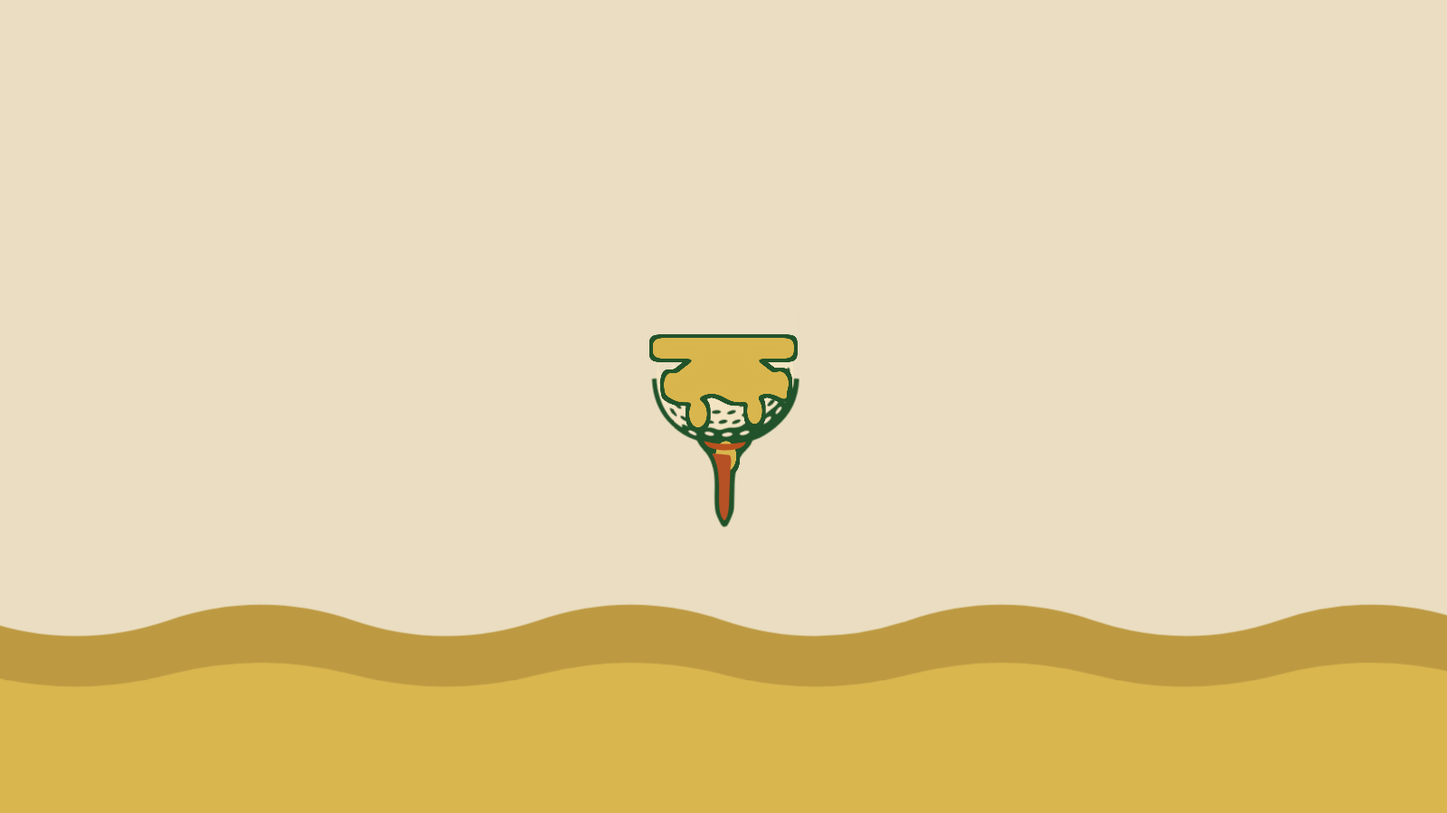
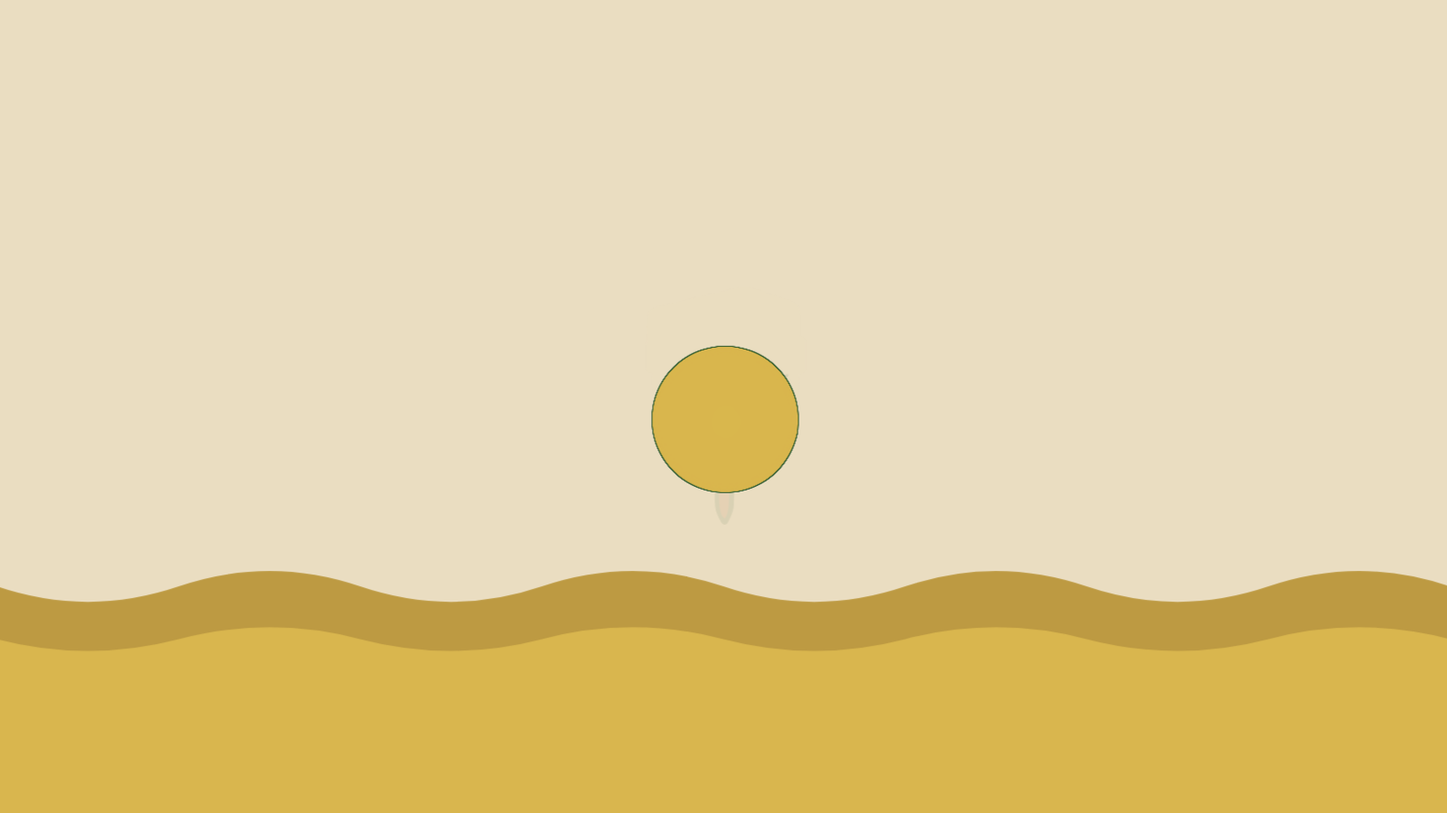
GSAP intro v3.6: butter claims the ball's shape immediately, tee submerged
A golden ring traces the ball's silhouette the moment the melt starts
(shape first), then the W-tongues fill inward. Tee moved beneath the
molten layers so the cascade flows over it; statics fade later/faster
so nothing ghosts in mid-air.

Claude-Session: https://claude.ai/code/session_01XoixdVZHUDRa8j4FLVb79L

Changed region(s): [[0.0, 0.6844, 1.0, 0.84], [0.4375, 0.4044, 0.5625, 0.6533]]

diff --git a/gsap/intro.html b/gsap/intro.html
@@ -36,6 +36,9 @@
     <clipPath id="coatClip">
       <path id="coatWave" d="M1520 400 H1968 V1240 Q1934 1264 1898 1248 L1832 1162 Q1788 1110 1744 1078 Q1700 1110 1656 1162 L1590 1248 Q1554 1264 1520 1240 Z"/>
     </clipPath>
+    <clipPath id="ringClip">
+      <rect id="ringRect" x="1520" y="898" width="448" height="0"/>
+    </clipPath>
     <clipPath id="eraserClip">
       <rect id="eraserRect" x="1520" y="740" width="440" height="0"/>
     </clipPath>
@@ -93,6 +96,8 @@
 <path d="M 1910.9849,989.3867000000001 C 1908.2438,989.1211000000001 1906.4965,983.1426000000001 1907.0822,976.0333 C 1907.6681,968.9243000000001 1910.3652,963.3763000000001 1913.1063,963.6422000000001 C 1915.8474,963.9078000000001 1917.595,969.8863000000001 1917.0094,976.9956000000001 C 1916.4231,984.1046000000001 1913.7263,989.6526000000001 1910.9849,989.3867000000001" fill-rule="evenodd" fill="#244e29"/>
 <path d="M 1605.3024,1058.3885 C 1607.0907,1056.5259 1612.5059,1058.7142000000001 1617.3972,1063.2766000000001 C 1622.2885,1067.8389000000002 1624.8036,1073.0479 1623.0153,1074.9108 C 1621.2268,1076.7735000000002 1615.8118,1074.5851000000002 1610.9203,1070.0228000000002 C 1606.0292,1065.4604000000002 1603.514,1060.2514 1605.3024,1058.3885" fill-rule="evenodd" fill="#244e29"/>
 <path d="M 1760.653,1114.9862 C 1759.7319,1112.5087 1764.159,1108.4917 1770.5413,1106.0142 C 1776.9237,1103.5371 1782.8439,1103.5371 1783.7649,1106.0148000000002 C 1784.6858,1108.4923000000001 1780.2584,1112.509 1773.8762,1114.9868000000001 C 1767.494,1117.4639000000002 1761.5735,1117.4639000000002 1760.653,1114.9862" fill-rule="evenodd" fill="#244e29"/>
+        <path d="M 1711.9911,1196.1174 C 1709.0892,1195.8756 1707.1549,1195.392 1707.6386,1198.2939000000001 C 1707.8803,1199.5028000000002 1708.3638,1200.7118 1709.0892,1201.9208 C 1715.1344,1213.7693000000002 1718.0363,1222.2325 1720.9378,1235.2900000000002 C 1723.8394,1248.8314 1725.0486,1269.8684 1725.5322,1285.1021 C 1726.2575,1305.8976 1721.4214,1358.1276 1737.8643,1375.7793000000001 C 1739.0733,1376.9885000000002 1740.524,1377.9557000000002 1741.9749,1376.5049000000001 C 1749.2289,1368.7669 1751.6472,1349.9060000000002 1752.6144,1332.0126 C 1753.8233,1302.9958000000001 1754.5487,1273.7371 1755.7577,1244.4788 C 1756.7252,1228.2776000000001 1759.3849,1220.0563000000002 1757.2088,1208.4496000000001 C 1755.7577,1202.1626 1755.0324,1199.9864000000002 1748.987,1199.7446 C 1735.446,1199.0193000000002 1724.8068,1197.3267 1711.9911,1196.1174" fill-rule="evenodd" fill="#b65125"/>
+<path d="M 1684.9434,1162.7400000000002 C 1686.1527,1169.7524 1692.6814,1175.7976 1698.7266,1179.183 C 1717.1036,1189.0969 1756.5182,1190.064 1777.0717,1183.0517 C 1786.0184,1180.1502 1796.8997,1173.1378 1797.6251,1165.1580000000001 C 1794.9655,1165.4001 1769.8175,1170.236 1743.7025,1170.7196000000001 C 1720.7308,1170.7196000000001 1706.4644,1167.5762 1684.9434,1162.7400000000002" fill-rule="evenodd" fill="#b9511f"/>
         <g id="hornCover" fill="#EADDC1" opacity="0">
           <rect x="1872" y="876" width="92" height="104" rx="14"/>
           <rect x="1522" y="886" width="84" height="90" rx="14"/>
@@ -101,6 +106,10 @@
       <!-- the molten butter: real art in the goo from frame one -->
       <g id="moltenRim" filter="url(#gooRim)">
     <g class="rPatArt"><path d="M 1567.0794,805.0633000000001 C 1609.861,795.0788000000001 1653.3692,785.0944000000001 1695.4243,775.1099000000002 L 1773.7997,756.2660000000001 C 1786.7239,753.3075000000001 1795.0346,750.5086000000001 1816.691,757.5790000000001 C 1847.8474,767.7821000000001 1879.2848,777.7509000000001 1910.16,788.1884000000001 C 1924.0271,792.9228000000002 1933.4418,800.1880000000001 1932.8479,822.0788000000001 L 1932.9395,880.4629000000001 C 1933.1039,894.1698000000001 1927.05,900.6620000000001 1914.3782,904.4862 C 1910.2658,905.7034000000001 1906.5003,906.3977000000001 1902.3515,907.9258000000001 C 1895.9406,910.3120000000001 1892.821,912.3362000000001 1889.8157,916.5335000000001 C 1884.0892,924.5998000000001 1878.8074,924.3693000000001 1873.9718,922.2053000000001 C 1864.9911,918.3587000000001 1856.2456,920.3220000000001 1847.3936,923.0492000000002 C 1822.4683,930.6670000000001 1796.3467,938.4243000000001 1770.4716,944.9874000000001 C 1748.5101,950.5189000000001 1734.8494,959.2474000000001 1732.5967,983.3319000000001 C 1731.9557,993.8473000000001 1732.7018,997.5278000000001 1733.2058,1003.0662000000001 C 1733.7997,1008.8865000000001 1733.643,1012.6736000000001 1732.737,1015.3946000000001 C 1730.472,1021.8950000000001 1724.8014,1022.7871000000001 1721.8619,1022.2383000000001 C 1715.6676,1021.0531000000001 1711.0879,1015.0366000000001 1710.6117,1004.5662000000001 C 1710.3696,997.7067000000001 1711.018,988.8320000000001 1710.6585,982.3004000000001 C 1710.1535,972.5685000000001 1704.172,964.7667000000001 1695.471,963.1756000000001 C 1685.9475,961.9009000000001 1679.8106,968.3437000000001 1675.9794,975.8955000000001 C 1674.8351,978.1510000000001 1673.9277,981.3335000000001 1672.5458,983.2364000000001 C 1669.9826,986.6215000000001 1666.1585,985.8627000000001 1661.6597,987.2911000000001 C 1658.1005,988.4210000000002 1655.0391,990.7332000000001 1653.0956,993.4099000000001 C 1649.6583,998.5900000000001 1650.127,1004.2156000000001 1650.6581,1010.1445000000001 C 1651.7055,1017.6450000000001 1654.5805,1023.2701000000002 1653.237,1035.3171000000002 C 1652.3229,1042.6851000000001 1646.8384,1045.2468000000001 1642.1275,1044.6924000000001 C 1633.6237,1043.5574000000001 1631.7006,1031.3709000000001 1632.5794,1024.0595 C 1633.4473,1016.7581000000001 1635.9253,1011.4737 1637.9087,1005.7387000000001 C 1640.1665,999.1215000000001 1642.4243,992.4572000000001 1643.3461,987.3634000000001 C 1645.7846,972.8775 1640.0446,964.7726000000001 1628.252,957.9726 L 1603.408,945.0818000000002 C 1595.5328,941.4846000000001 1586.9546,946.1972000000001 1586.8607,955.0195000000001 L 1586.6266,973.7695000000001 C 1586.2966,979.5165000000001 1583.9887,982.5544000000001 1579.5952,982.5354000000001 C 1566.322,982.2596000000001 1573.1141,959.0186000000001 1571.8606,949.0426000000001 C 1570.6344,940.3734000000001 1567.0397,933.8761000000001 1561.3139,929.3322000000001 C 1556.9303,925.9255 1550.2745,924.6287000000001 1546.1957,920.9414000000002 C 1542.9138,917.8797000000001 1541.1881,913.6515 1540.8048,908.5197000000001 C 1540.1254,899.3867000000001 1540.8989,857.4884000000001 1540.946,831.9726 C 1541.49,815.3735000000001 1552.0326,808.5706000000001 1567.0794,805.0633000000001" fill-rule="evenodd"/></g>
+    <g clip-path="url(#ringClip)">
+      <circle class="rRing" cx="1742.1" cy="1104.6" r="184"
+        fill="none" stroke="#D9B64E" stroke-width="30"/>
+    </g>
     <g clip-path="url(#coatClip)">
       <ellipse class="rCoat" cx="1742.1" cy="1104.6" rx="190" ry="190"/>
     </g>
@@ -112,6 +121,10 @@
 </g>
       <g id="moltenGold" filter="url(#goo)" fill="#D9B64E">
     <g class="gPatArt"><path d="M 1567.0794,805.0633000000001 C 1609.861,795.0788000000001 1653.3692,785.0944000000001 1695.4243,775.1099000000002 L 1773.7997,756.2660000000001 C 1786.7239,753.3075000000001 1795.0346,750.5086000000001 1816.691,757.5790000000001 C 1847.8474,767.7821000000001 1879.2848,777.7509000000001 1910.16,788.1884000000001 C 1924.0271,792.9228000000002 1933.4418,800.1880000000001 1932.8479,822.0788000000001 L 1932.9395,880.4629000000001 C 1933.1039,894.1698000000001 1927.05,900.6620000000001 1914.3782,904.4862 C 1910.2658,905.7034000000001 1906.5003,906.3977000000001 1902.3515,907.9258000000001 C 1895.9406,910.3120000000001 1892.821,912.3362000000001 1889.8157,916.5335000000001 C 1884.0892,924.5998000000001 1878.8074,924.3693000000001 1873.9718,922.2053000000001 C 1864.9911,918.3587000000001 1856.2456,920.3220000000001 1847.3936,923.0492000000002 C 1822.4683,930.6670000000001 1796.3467,938.4243000000001 1770.4716,944.9874000000001 C 1748.5101,950.5189000000001 1734.8494,959.2474000000001 1732.5967,983.3319000000001 C 1731.9557,993.8473000000001 1732.7018,997.5278000000001 1733.2058,1003.0662000000001 C 1733.7997,1008.8865000000001 1733.643,1012.6736000000001 1732.737,1015.3946000000001 C 1730.472,1021.8950000000001 1724.8014,1022.7871000000001 1721.8619,1022.2383000000001 C 1715.6676,1021.0531000000001 1711.0879,1015.0366000000001 1710.6117,1004.5662000000001 C 1710.3696,997.7067000000001 1711.018,988.8320000000001 1710.6585,982.3004000000001 C 1710.1535,972.5685000000001 1704.172,964.7667000000001 1695.471,963.1756000000001 C 1685.9475,961.9009000000001 1679.8106,968.3437000000001 1675.9794,975.8955000000001 C 1674.8351,978.1510000000001 1673.9277,981.3335000000001 1672.5458,983.2364000000001 C 1669.9826,986.6215000000001 1666.1585,985.8627000000001 1661.6597,987.2911000000001 C 1658.1005,988.4210000000002 1655.0391,990.7332000000001 1653.0956,993.4099000000001 C 1649.6583,998.5900000000001 1650.127,1004.2156000000001 1650.6581,1010.1445000000001 C 1651.7055,1017.6450000000001 1654.5805,1023.2701000000002 1653.237,1035.3171000000002 C 1652.3229,1042.6851000000001 1646.8384,1045.2468000000001 1642.1275,1044.6924000000001 C 1633.6237,1043.5574000000001 1631.7006,1031.3709000000001 1632.5794,1024.0595 C 1633.4473,1016.7581000000001 1635.9253,1011.4737 1637.9087,1005.7387000000001 C 1640.1665,999.1215000000001 1642.4243,992.4572000000001 1643.3461,987.3634000000001 C 1645.7846,972.8775 1640.0446,964.7726000000001 1628.252,957.9726 L 1603.408,945.0818000000002 C 1595.5328,941.4846000000001 1586.9546,946.1972000000001 1586.8607,955.0195000000001 L 1586.6266,973.7695000000001 C 1586.2966,979.5165000000001 1583.9887,982.5544000000001 1579.5952,982.5354000000001 C 1566.322,982.2596000000001 1573.1141,959.0186000000001 1571.8606,949.0426000000001 C 1570.6344,940.3734000000001 1567.0397,933.8761000000001 1561.3139,929.3322000000001 C 1556.9303,925.9255 1550.2745,924.6287000000001 1546.1957,920.9414000000002 C 1542.9138,917.8797000000001 1541.1881,913.6515 1540.8048,908.5197000000001 C 1540.1254,899.3867000000001 1540.8989,857.4884000000001 1540.946,831.9726 C 1541.49,815.3735000000001 1552.0326,808.5706000000001 1567.0794,805.0633000000001" fill-rule="evenodd"/></g>
+    <g clip-path="url(#ringClip)">
+      <circle class="gRing" cx="1742.1" cy="1104.6" r="184"
+        fill="none" stroke="#D9B64E" stroke-width="30"/>
+    </g>
     <g clip-path="url(#coatClip)">
       <ellipse class="gCoat" cx="1742.1" cy="1104.6" rx="190" ry="190"/>
     </g>
@@ -121,8 +134,6 @@
 <ellipse class="gRun" cx="1814" cy="962" rx="28" ry="34" data-drift="22"/>
 <ellipse class="gRun" cx="1882" cy="962" rx="33" ry="34" data-drift="52"/>
 </g>
-      <g id="staticB"><path d="M 1711.9911,1196.1174 C 1709.0892,1195.8756 1707.1549,1195.392 1707.6386,1198.2939000000001 C 1707.8803,1199.5028000000002 1708.3638,1200.7118 1709.0892,1201.9208 C 1715.1344,1213.7693000000002 1718.0363,1222.2325 1720.9378,1235.2900000000002 C 1723.8394,1248.8314 1725.0486,1269.8684 1725.5322,1285.1021 C 1726.2575,1305.8976 1721.4214,1358.1276 1737.8643,1375.7793000000001 C 1739.0733,1376.9885000000002 1740.524,1377.9557000000002 1741.9749,1376.5049000000001 C 1749.2289,1368.7669 1751.6472,1349.9060000000002 1752.6144,1332.0126 C 1753.8233,1302.9958000000001 1754.5487,1273.7371 1755.7577,1244.4788 C 1756.7252,1228.2776000000001 1759.3849,1220.0563000000002 1757.2088,1208.4496000000001 C 1755.7577,1202.1626 1755.0324,1199.9864000000002 1748.987,1199.7446 C 1735.446,1199.0193000000002 1724.8068,1197.3267 1711.9911,1196.1174" fill-rule="evenodd" fill="#b65125"/>
-<path d="M 1684.9434,1162.7400000000002 C 1686.1527,1169.7524 1692.6814,1175.7976 1698.7266,1179.183 C 1717.1036,1189.0969 1756.5182,1190.064 1777.0717,1183.0517 C 1786.0184,1180.1502 1796.8997,1173.1378 1797.6251,1165.1580000000001 C 1794.9655,1165.4001 1769.8175,1170.236 1743.7025,1170.7196000000001 C 1720.7308,1170.7196000000001 1706.4644,1167.5762 1684.9434,1162.7400000000002" fill-rule="evenodd" fill="#b9511f"/></g>
       <g id="bsg" filter="url(#lettersMelt)"><path d="M 1702.0774,807.9856000000001 C 1709.8911,808.8651000000001 1716.7363,811.9371000000001 1721.1317,816.9201000000002 C 1728.5978,825.3855000000001 1727.0614,836.8618000000001 1720.9049,845.6050000000001 C 1716.7796,851.4702000000001 1710.2376,856.0419 1703.6712,858.1423000000001 C 1701.9292,858.6738000000001 1701.7588,859.6427000000001 1703.1555,860.2987 C 1710.5302,863.5001000000001 1714.7344,869.6133000000001 1715.3898,878.2989000000001 C 1715.6007,886.9616000000001 1713.354,894.0998000000001 1709.0425,900.0033000000001 C 1700.1417,911.7526000000001 1683.8709,919.0498000000001 1669.6871,918.0962000000001 C 1663.4319,917.3796000000001 1659.5827,915.1062000000001 1655.3432,910.2678000000001 C 1654.9291,909.7621000000001 1654.6561,909.6549000000001 1654.312,910.1742000000002 C 1648.6724,919.1210000000001 1642.1627,924.7900000000001 1635.3275,927.0962000000001 C 1626.8224,929.8847000000001 1617.8869,928.4098000000001 1613.5773,922.3618000000001 C 1610.8285,918.3678000000001 1610.8291,911.2316000000001 1613.0617,906.5178000000001 C 1615.0901,902.4668000000001 1618.8395,901.2292000000001 1620.5615,905.3928000000001 C 1622.1943,909.1025000000001 1624.4243,911.6086000000001 1627.5462,912.3773000000001 C 1631.156,913.0846000000001 1634.1792,911.4646000000001 1636.8551,908.2104000000002 C 1642.1085,901.3355000000001 1645.41,892.1326000000001 1647.843,885.3068000000001 C 1655.4249,864.4387000000002 1665.2988,832.6243000000001 1677.3993,819.0721000000001 C 1678.0317,818.2714000000001 1677.2017,818.1308000000001 1675.9227,818.3572000000001 C 1664.1585,820.1544000000001 1649.1742,828.4542000000001 1643.5471,836.7640000000001 C 1641.6763,839.5264000000001 1640.356,843.4779000000001 1643.5315,845.9086000000001 C 1644.7521,846.8811000000001 1647.0208,847.9385000000001 1648.5471,848.7211000000001 C 1650.5549,849.7365000000001 1649.6685,851.8772000000001 1648.313,853.1741000000001 C 1644.8168,856.4382000000002 1640.3687,857.7152000000001 1635.891,856.8772000000001 C 1629.3878,855.2604000000001 1626.457,850.0959000000001 1626.9378,843.4240000000001 C 1627.8528,837.0628000000002 1632.8511,830.5817000000001 1639.9223,825.0958 C 1659.505,811.9643000000001 1676.9551,805.9735000000001 1702.0774,807.9856000000001 M 1675.0208,865.9804000000001 C 1678.9467,865.9645000000002 1685.2514,866.3413000000002 1689.0131,867.9723000000001 C 1701.7007,873.5818000000002 1698.1228,886.6444000000001 1695.2947,891.9730000000001 C 1692.7575,896.6584000000001 1688.9605,901.0053000000001 1683.6735,904.0854000000002 C 1676.5271,908.1089000000001 1667.1067,908.9738000000001 1660.2789,903.1293000000001 C 1659.6694,902.6157000000001 1659.3883,902.1726000000001 1659.7166,901.2545000000001 C 1664.6902,889.9913000000001 1669.1023,878.6584000000001 1673.0756,867.2696000000001 C 1673.3928,866.4198000000001 1673.9855,865.9920000000001 1675.0208,865.9804000000001 M 1693.6495,820.4478000000001 C 1694.8202,819.6110000000001 1696.3405,819.1881000000001 1697.9649,819.1416000000002 C 1702.0205,819.0849000000001 1705.1452,821.4952000000001 1707.5512,825.0246000000001 C 1712.356,832.8292000000001 1707.1532,843.2826000000001 1703.7077,846.7984000000001 C 1698.0302,853.0757000000001 1690.3071,857.4737000000001 1679.0043,858.2594000000001 C 1677.9708,858.3240000000001 1677.026,858.2481000000001 1677.223,857.2752000000002 C 1679.7501,850.2637000000001 1688.5355,824.1051000000001 1693.6495,820.4478000000001" fill-rule="evenodd" fill="#b15023" class="bsgL"/>
 <path d="M 1784.3244,834.5170000000002 C 1789.8626,830.9839000000001 1793.6376,823.2762000000001 1792.9962,816.5167000000001 C 1791.0624,800.3065000000001 1773.9763,796.5634000000001 1760.0587,800.8391000000001 C 1746.9832,804.8785000000001 1737.2155,816.5365000000002 1737.6834,830.4856000000001 C 1738.0355,839.0961000000001 1741.9686,846.1881000000001 1748.1832,853.1735000000001 C 1754.3239,860.1501000000001 1761.4257,865.7437000000001 1766.6054,874.5955000000001 C 1769.7665,880.8045000000001 1769.0187,887.8988000000002 1765.8085,892.6896000000002 C 1761.8964,898.4643000000001 1754.955,901.9739000000001 1747.3397,900.7522000000001 C 1741.2453,899.4862 1736.747,894.2291000000001 1735.7145,888.6582000000001 C 1734.763,882.7666000000002 1735.6113,876.5721000000001 1738.8082,872.0641000000002 C 1739.9194,870.5309000000001 1739.425,869.6717000000001 1738.0108,869.6269000000001 C 1734.8091,869.5073000000001 1731.2102,870.4183000000002 1727.7457,873.7048000000001 C 1721.9004,879.6275 1719.2316,888.1740000000001 1721.2771,895.2209000000001 C 1724.377,904.8825000000002 1734.287,912.0051000000001 1745.8866,912.4712000000001 C 1755.8134,912.5743000000001 1764.7413,909.3440000000002 1773.5899,902.0178000000001 C 1777.8762,898.1162000000002 1781.3273,893.7849000000001 1783.2626,889.5902000000001 C 1786.1975,883.0665000000001 1786.0844,873.7831000000001 1783.4998,866.9314000000002 C 1778.7881,854.3246000000001 1765.4984,846.7556000000001 1758.2854,835.2446000000001 C 1756.5454,832.4366000000001 1754.8087,828.0809000000002 1755.3501,822.7651000000001 C 1756.081,816.9102000000001 1759.6633,812.7257000000001 1764.3197,810.8222000000001 C 1768.1995,809.2490000000001 1774.4474,808.9970000000001 1777.341,812.8850000000001 C 1779.7949,816.3571000000001 1780.17,821.1638000000002 1779.71,827.2532000000001 C 1779.5784,828.8854000000001 1779.2765,830.8702000000001 1779.6397,832.7845000000001 C 1780.287,835.6823 1782.9031,835.3691000000001 1784.3244,834.5170000000002" fill-rule="evenodd" fill="#b15023" class="bsgL"/>
 <path d="M 1838.0089,800.0726000000001 C 1847.0741,796.8854000000001 1856.444,795.8292000000001 1864.0523,797.5181000000001 C 1873.8449,800.0369000000001 1878.6932,808.0306000000002 1876.6809,818.5415000000002 C 1875.1154,825.6684000000001 1868.0786,833.0790000000001 1861.634,834.6199000000001 C 1859.4048,835.0709000000002 1857.4534,834.7282000000001 1856.4776,833.4013000000001 C 1855.692,832.1557000000001 1856.3445,830.3367000000001 1856.8526,829.1825000000001 C 1857.8483,826.9165000000002 1859.2554,824.3554000000001 1860.1807,821.9635000000001 C 1865.2141,809.3082 1855.471,804.3793000000001 1844.2899,808.3229000000001 C 1837.29,810.8205000000002 1830.4313,816.6145000000001 1824.228,825.8535 C 1817.3958,836.6776000000001 1812.482,850.1784000000001 1810.8919,862.2991000000001 C 1810.0471,869.0574000000001 1809.8975,876.9692000000001 1812.8075,883.2185000000001 C 1815.472,888.7191000000001 1821.7194,890.3490000000002 1826.8792,887.3123000000002 C 1832.6957,883.7641000000001 1836.3186,879.1902000000001 1839.2752,873.8772000000001 C 1840.6395,871.4864000000001 1848.001,858.9961000000001 1843.5407,857.6114000000001 C 1841.5894,857.1213000000001 1836.4623,857.3078000000002 1834.4705,857.2832000000001 C 1832.504,857.2032000000002 1831.7727,856.4433000000001 1831.6812,854.9862 C 1831.3594,849.4584000000001 1850.034,847.3491000000001 1853.6658,846.9704000000002 C 1859.5018,846.4078000000001 1864.4706,846.1736000000001 1869.2753,846.2674000000001 C 1871.8067,846.3068000000001 1871.7012,847.3647000000001 1870.541,848.8456000000001 C 1859.6038,862.0510000000002 1862.1817,863.7700000000001 1857.744,880.4867000000002 C 1853.4306,896.4979000000001 1844.339,908.1634000000001 1830.0407,916.1585000000001 C 1817.0048,923.3134000000001 1796.7175,929.5349000000001 1774.6342,933.7834000000001 C 1730.7218,942.1085000000002 1717.2604,933.5604000000001 1679.5244,960.3617000000002 C 1677.4115,961.7399000000001 1677.2003,960.0456000000001 1677.5946,958.4148000000001 C 1679.2656,951.5108000000001 1683.4025,945.1759000000001 1688.5596,939.9012000000001 C 1696.1737,932.3245000000001 1705.5197,927.4704000000002 1715.7124,925.2058000000001 C 1730.3919,922.1353000000001 1746.4255,922.3040000000001 1761.463,921.5962000000001 C 1779.3694,920.8617000000002 1792.4472,918.8619000000001 1805.9472,915.2681000000001 C 1816.0119,912.6137000000001 1825.8761,907.3450000000001 1832.8535,899.3774000000001 C 1835.9501,895.6711000000001 1837.2178,891.9668000000001 1837.9159,889.0179 C 1838.1875,887.8500000000001 1837.7907,887.1269000000001 1836.8847,888.2211000000001 C 1831.29,894.9315000000001 1824.9639,899.3312000000001 1818.1347,900.7369000000001 C 1811.2907,902.0108000000001 1805.2628,901.0337000000001 1800.0873,897.1272000000001 C 1792.7589,891.0690000000001 1789.662,881.4857000000001 1790.4197,868.2473000000001 C 1791.4575,854.4964000000001 1795.7217,842.8148000000001 1803.4628,829.5328000000001 C 1811.948,815.8815000000001 1824.0548,805.2561000000001 1838.0089,800.0726000000001" fill-rule="evenodd" fill="#b15023" class="bsgL"/>
@@ -194,6 +205,8 @@ tl.addLabel("melt", 1.6)
   .to(".rPatArt", { opacity: 0, duration: 1.6, ease: "sine.in" }, "melt+=0.5")
   .to("#eraserRect", { attr: { height: 300 }, duration: 1.6, ease: "power1.out" }, "melt+=0.05")
   // butter coats the ball's crown, hugging the surface
+  .to("#ringRect", { attr: { height: 430 }, duration: 0.85, ease: "power1.inOut" }, "melt+=0.45")
+  .to(".rRing, .gRing", { autoAlpha: 0, duration: 0.5, ease: "sine.inOut" }, "melt+=2.7")
   .to("#coatWave", { y: 255, duration: 2.5, ease: "power1.inOut" }, "melt+=0.4")
   .to(".rRun, .gRun", { autoAlpha: 1, duration: 0.4, stagger: 0.15 }, "melt+=0.3")
   .to("#hornCover", { opacity: 1, duration: 0.5, ease: "sine.inOut" }, "melt+=0.9")
@@ -221,7 +234,7 @@ tl.addLabel("consume", 3.3)
   .to("#pondBack", { y: 585, duration: 1.3, ease: "power1.inOut" }, "consume+=0.1")
   .to("#pondFront", { y: 606, duration: 1.3, ease: "power1.inOut" }, "consume+=0.22")
   // everything solid fades beneath the gold (invisible handoff)
-  .to(["#staticA", "#staticB"], { autoAlpha: 0, duration: 0.55, ease: "sine.inOut" }, "consume+=0.55")
+  .to("#staticA", { autoAlpha: 0, duration: 0.38, ease: "sine.inOut" }, "consume+=0.78")
   .to(".rPatArt, .gPatArt", { autoAlpha: 0, duration: 0.4 }, "consume+=0.7")
   // ...and the whole molten mass slumps off the tee into the river
   .to(".rCoat, .gCoat", { attr: { cy: "+=300", ry: 96, rx: 238 },

diff --git a/gsap/intro_artifact.html b/gsap/intro_artifact.html
@@ -29,6 +29,9 @@
     <clipPath id="coatClip">
       <path id="coatWave" d="M1520 400 H1968 V1240 Q1934 1264 1898 1248 L1832 1162 Q1788 1110 1744 1078 Q1700 1110 1656 1162 L1590 1248 Q1554 1264 1520 1240 Z"/>
     </clipPath>
+    <clipPath id="ringClip">
+      <rect id="ringRect" x="1520" y="898" width="448" height="0"/>
+    </clipPath>
     <clipPath id="eraserClip">
       <rect id="eraserRect" x="1520" y="740" width="440" height="0"/>
     </clipPath>
@@ -86,6 +89,8 @@
 <path d="M 1910.9849,989.3867000000001 C 1908.2438,989.1211000000001 1906.4965,983.1426000000001 1907.0822,976.0333 C 1907.6681,968.9243000000001 1910.3652,963.3763000000001 1913.1063,963.6422000000001 C 1915.8474,963.9078000000001 1917.595,969.8863000000001 1917.0094,976.9956000000001 C 1916.4231,984.1046000000001 1913.7263,989.6526000000001 1910.9849,989.3867000000001" fill-rule="evenodd" fill="#244e29"/>
 <path d="M 1605.3024,1058.3885 C 1607.0907,1056.5259 1612.5059,1058.7142000000001 1617.3972,1063.2766000000001 C 1622.2885,1067.8389000000002 1624.8036,1073.0479 1623.0153,1074.9108 C 1621.2268,1076.7735000000002 1615.8118,1074.5851000000002 1610.9203,1070.0228000000002 C 1606.0292,1065.4604000000002 1603.514,1060.2514 1605.3024,1058.3885" fill-rule="evenodd" fill="#244e29"/>
 <path d="M 1760.653,1114.9862 C 1759.7319,1112.5087 1764.159,1108.4917 1770.5413,1106.0142 C 1776.9237,1103.5371 1782.8439,1103.5371 1783.7649,1106.0148000000002 C 1784.6858,1108.4923000000001 1780.2584,1112.509 1773.8762,1114.9868000000001 C 1767.494,1117.4639000000002 1761.5735,1117.4639000000002 1760.653,1114.9862" fill-rule="evenodd" fill="#244e29"/>
+        <path d="M 1711.9911,1196.1174 C 1709.0892,1195.8756 1707.1549,1195.392 1707.6386,1198.2939000000001 C 1707.8803,1199.5028000000002 1708.3638,1200.7118 1709.0892,1201.9208 C 1715.1344,1213.7693000000002 1718.0363,1222.2325 1720.9378,1235.2900000000002 C 1723.8394,1248.8314 1725.0486,1269.8684 1725.5322,1285.1021 C 1726.2575,1305.8976 1721.4214,1358.1276 1737.8643,1375.7793000000001 C 1739.0733,1376.9885000000002 1740.524,1377.9557000000002 1741.9749,1376.5049000000001 C 1749.2289,1368.7669 1751.6472,1349.9060000000002 1752.6144,1332.0126 C 1753.8233,1302.9958000000001 1754.5487,1273.7371 1755.7577,1244.4788 C 1756.7252,1228.2776000000001 1759.3849,1220.0563000000002 1757.2088,1208.4496000000001 C 1755.7577,1202.1626 1755.0324,1199.9864000000002 1748.987,1199.7446 C 1735.446,1199.0193000000002 1724.8068,1197.3267 1711.9911,1196.1174" fill-rule="evenodd" fill="#b65125"/>
+<path d="M 1684.9434,1162.7400000000002 C 1686.1527,1169.7524 1692.6814,1175.7976 1698.7266,1179.183 C 1717.1036,1189.0969 1756.5182,1190.064 1777.0717,1183.0517 C 1786.0184,1180.1502 1796.8997,1173.1378 1797.6251,1165.1580000000001 C 1794.9655,1165.4001 1769.8175,1170.236 1743.7025,1170.7196000000001 C 1720.7308,1170.7196000000001 1706.4644,1167.5762 1684.9434,1162.7400000000002" fill-rule="evenodd" fill="#b9511f"/>
         <g id="hornCover" fill="#EADDC1" opacity="0">
           <rect x="1872" y="876" width="92" height="104" rx="14"/>
           <rect x="1522" y="886" width="84" height="90" rx="14"/>
@@ -94,6 +99,10 @@
       <!-- the molten butter: real art in the goo from frame one -->
       <g id="moltenRim" filter="url(#gooRim)">
     <g class="rPatArt"><path d="M 1567.0794,805.0633000000001 C 1609.861,795.0788000000001 1653.3692,785.0944000000001 1695.4243,775.1099000000002 L 1773.7997,756.2660000000001 C 1786.7239,753.3075000000001 1795.0346,750.5086000000001 1816.691,757.5790000000001 C 1847.8474,767.7821000000001 1879.2848,777.7509000000001 1910.16,788.1884000000001 C 1924.0271,792.9228000000002 1933.4418,800.1880000000001 1932.8479,822.0788000000001 L 1932.9395,880.4629000000001 C 1933.1039,894.1698000000001 1927.05,900.6620000000001 1914.3782,904.4862 C 1910.2658,905.7034000000001 1906.5003,906.3977000000001 1902.3515,907.9258000000001 C 1895.9406,910.3120000000001 1892.821,912.3362000000001 1889.8157,916.5335000000001 C 1884.0892,924.5998000000001 1878.8074,924.3693000000001 1873.9718,922.2053000000001 C 1864.9911,918.3587000000001 1856.2456,920.3220000000001 1847.3936,923.0492000000002 C 1822.4683,930.6670000000001 1796.3467,938.4243000000001 1770.4716,944.9874000000001 C 1748.5101,950.5189000000001 1734.8494,959.2474000000001 1732.5967,983.3319000000001 C 1731.9557,993.8473000000001 1732.7018,997.5278000000001 1733.2058,1003.0662000000001 C 1733.7997,1008.8865000000001 1733.643,1012.6736000000001 1732.737,1015.3946000000001 C 1730.472,1021.8950000000001 1724.8014,1022.7871000000001 1721.8619,1022.2383000000001 C 1715.6676,1021.0531000000001 1711.0879,1015.0366000000001 1710.6117,1004.5662000000001 C 1710.3696,997.7067000000001 1711.018,988.8320000000001 1710.6585,982.3004000000001 C 1710.1535,972.5685000000001 1704.172,964.7667000000001 1695.471,963.1756000000001 C 1685.9475,961.9009000000001 1679.8106,968.3437000000001 1675.9794,975.8955000000001 C 1674.8351,978.1510000000001 1673.9277,981.3335000000001 1672.5458,983.2364000000001 C 1669.9826,986.6215000000001 1666.1585,985.8627000000001 1661.6597,987.2911000000001 C 1658.1005,988.4210000000002 1655.0391,990.7332000000001 1653.0956,993.4099000000001 C 1649.6583,998.5900000000001 1650.127,1004.2156000000001 1650.6581,1010.1445000000001 C 1651.7055,1017.6450000000001 1654.5805,1023.2701000000002 1653.237,1035.3171000000002 C 1652.3229,1042.6851000000001 1646.8384,1045.2468000000001 1642.1275,1044.6924000000001 C 1633.6237,1043.5574000000001 1631.7006,1031.3709000000001 1632.5794,1024.0595 C 1633.4473,1016.7581000000001 1635.9253,1011.4737 1637.9087,1005.7387000000001 C 1640.1665,999.1215000000001 1642.4243,992.4572000000001 1643.3461,987.3634000000001 C 1645.7846,972.8775 1640.0446,964.7726000000001 1628.252,957.9726 L 1603.408,945.0818000000002 C 1595.5328,941.4846000000001 1586.9546,946.1972000000001 1586.8607,955.0195000000001 L 1586.6266,973.7695000000001 C 1586.2966,979.5165000000001 1583.9887,982.5544000000001 1579.5952,982.5354000000001 C 1566.322,982.2596000000001 1573.1141,959.0186000000001 1571.8606,949.0426000000001 C 1570.6344,940.3734000000001 1567.0397,933.8761000000001 1561.3139,929.3322000000001 C 1556.9303,925.9255 1550.2745,924.6287000000001 1546.1957,920.9414000000002 C 1542.9138,917.8797000000001 1541.1881,913.6515 1540.8048,908.5197000000001 C 1540.1254,899.3867000000001 1540.8989,857.4884000000001 1540.946,831.9726 C 1541.49,815.3735000000001 1552.0326,808.5706000000001 1567.0794,805.0633000000001" fill-rule="evenodd"/></g>
+    <g clip-path="url(#ringClip)">
+      <circle class="rRing" cx="1742.1" cy="1104.6" r="184"
+        fill="none" stroke="#D9B64E" stroke-width="30"/>
+    </g>
     <g clip-path="url(#coatClip)">
       <ellipse class="rCoat" cx="1742.1" cy="1104.6" rx="190" ry="190"/>
     </g>
@@ -105,6 +114,10 @@
 </g>
       <g id="moltenGold" filter="url(#goo)" fill="#D9B64E">
     <g class="gPatArt"><path d="M 1567.0794,805.0633000000001 C 1609.861,795.0788000000001 1653.3692,785.0944000000001 1695.4243,775.1099000000002 L 1773.7997,756.2660000000001 C 1786.7239,753.3075000000001 1795.0346,750.5086000000001 1816.691,757.5790000000001 C 1847.8474,767.7821000000001 1879.2848,777.7509000000001 1910.16,788.1884000000001 C 1924.0271,792.9228000000002 1933.4418,800.1880000000001 1932.8479,822.0788000000001 L 1932.9395,880.4629000000001 C 1933.1039,894.1698000000001 1927.05,900.6620000000001 1914.3782,904.4862 C 1910.2658,905.7034000000001 1906.5003,906.3977000000001 1902.3515,907.9258000000001 C 1895.9406,910.3120000000001 1892.821,912.3362000000001 1889.8157,916.5335000000001 C 1884.0892,924.5998000000001 1878.8074,924.3693000000001 1873.9718,922.2053000000001 C 1864.9911,918.3587000000001 1856.2456,920.3220000000001 1847.3936,923.0492000000002 C 1822.4683,930.6670000000001 1796.3467,938.4243000000001 1770.4716,944.9874000000001 C 1748.5101,950.5189000000001 1734.8494,959.2474000000001 1732.5967,983.3319000000001 C 1731.9557,993.8473000000001 1732.7018,997.5278000000001 1733.2058,1003.0662000000001 C 1733.7997,1008.8865000000001 1733.643,1012.6736000000001 1732.737,1015.3946000000001 C 1730.472,1021.8950000000001 1724.8014,1022.7871000000001 1721.8619,1022.2383000000001 C 1715.6676,1021.0531000000001 1711.0879,1015.0366000000001 1710.6117,1004.5662000000001 C 1710.3696,997.7067000000001 1711.018,988.8320000000001 1710.6585,982.3004000000001 C 1710.1535,972.5685000000001 1704.172,964.7667000000001 1695.471,963.1756000000001 C 1685.9475,961.9009000000001 1679.8106,968.3437000000001 1675.9794,975.8955000000001 C 1674.8351,978.1510000000001 1673.9277,981.3335000000001 1672.5458,983.2364000000001 C 1669.9826,986.6215000000001 1666.1585,985.8627000000001 1661.6597,987.2911000000001 C 1658.1005,988.4210000000002 1655.0391,990.7332000000001 1653.0956,993.4099000000001 C 1649.6583,998.5900000000001 1650.127,1004.2156000000001 1650.6581,1010.1445000000001 C 1651.7055,1017.6450000000001 1654.5805,1023.2701000000002 1653.237,1035.3171000000002 C 1652.3229,1042.6851000000001 1646.8384,1045.2468000000001 1642.1275,1044.6924000000001 C 1633.6237,1043.5574000000001 1631.7006,1031.3709000000001 1632.5794,1024.0595 C 1633.4473,1016.7581000000001 1635.9253,1011.4737 1637.9087,1005.7387000000001 C 1640.1665,999.1215000000001 1642.4243,992.4572000000001 1643.3461,987.3634000000001 C 1645.7846,972.8775 1640.0446,964.7726000000001 1628.252,957.9726 L 1603.408,945.0818000000002 C 1595.5328,941.4846000000001 1586.9546,946.1972000000001 1586.8607,955.0195000000001 L 1586.6266,973.7695000000001 C 1586.2966,979.5165000000001 1583.9887,982.5544000000001 1579.5952,982.5354000000001 C 1566.322,982.2596000000001 1573.1141,959.0186000000001 1571.8606,949.0426000000001 C 1570.6344,940.3734000000001 1567.0397,933.8761000000001 1561.3139,929.3322000000001 C 1556.9303,925.9255 1550.2745,924.6287000000001 1546.1957,920.9414000000002 C 1542.9138,917.8797000000001 1541.1881,913.6515 1540.8048,908.5197000000001 C 1540.1254,899.3867000000001 1540.8989,857.4884000000001 1540.946,831.9726 C 1541.49,815.3735000000001 1552.0326,808.5706000000001 1567.0794,805.0633000000001" fill-rule="evenodd"/></g>
+    <g clip-path="url(#ringClip)">
+      <circle class="gRing" cx="1742.1" cy="1104.6" r="184"
+        fill="none" stroke="#D9B64E" stroke-width="30"/>
+    </g>
     <g clip-path="url(#coatClip)">
       <ellipse class="gCoat" cx="1742.1" cy="1104.6" rx="190" ry="190"/>
     </g>
@@ -114,8 +127,6 @@
 <ellipse class="gRun" cx="1814" cy="962" rx="28" ry="34" data-drift="22"/>
 <ellipse class="gRun" cx="1882" cy="962" rx="33" ry="34" data-drift="52"/>
 </g>
-      <g id="staticB"><path d="M 1711.9911,1196.1174 C 1709.0892,1195.8756 1707.1549,1195.392 1707.6386,1198.2939000000001 C 1707.8803,1199.5028000000002 1708.3638,1200.7118 1709.0892,1201.9208 C 1715.1344,1213.7693000000002 1718.0363,1222.2325 1720.9378,1235.2900000000002 C 1723.8394,1248.8314 1725.0486,1269.8684 1725.5322,1285.1021 C 1726.2575,1305.8976 1721.4214,1358.1276 1737.8643,1375.7793000000001 C 1739.0733,1376.9885000000002 1740.524,1377.9557000000002 1741.9749,1376.5049000000001 C 1749.2289,1368.7669 1751.6472,1349.9060000000002 1752.6144,1332.0126 C 1753.8233,1302.9958000000001 1754.5487,1273.7371 1755.7577,1244.4788 C 1756.7252,1228.2776000000001 1759.3849,1220.0563000000002 1757.2088,1208.4496000000001 C 1755.7577,1202.1626 1755.0324,1199.9864000000002 1748.987,1199.7446 C 1735.446,1199.0193000000002 1724.8068,1197.3267 1711.9911,1196.1174" fill-rule="evenodd" fill="#b65125"/>
-<path d="M 1684.9434,1162.7400000000002 C 1686.1527,1169.7524 1692.6814,1175.7976 1698.7266,1179.183 C 1717.1036,1189.0969 1756.5182,1190.064 1777.0717,1183.0517 C 1786.0184,1180.1502 1796.8997,1173.1378 1797.6251,1165.1580000000001 C 1794.9655,1165.4001 1769.8175,1170.236 1743.7025,1170.7196000000001 C 1720.7308,1170.7196000000001 1706.4644,1167.5762 1684.9434,1162.7400000000002" fill-rule="evenodd" fill="#b9511f"/></g>
       <g id="bsg" filter="url(#lettersMelt)"><path d="M 1702.0774,807.9856000000001 C 1709.8911,808.8651000000001 1716.7363,811.9371000000001 1721.1317,816.9201000000002 C 1728.5978,825.3855000000001 1727.0614,836.8618000000001 1720.9049,845.6050000000001 C 1716.7796,851.4702000000001 1710.2376,856.0419 1703.6712,858.1423000000001 C 1701.9292,858.6738000000001 1701.7588,859.6427000000001 1703.1555,860.2987 C 1710.5302,863.5001000000001 1714.7344,869.6133000000001 1715.3898,878.2989000000001 C 1715.6007,886.9616000000001 1713.354,894.0998000000001 1709.0425,900.0033000000001 C 1700.1417,911.7526000000001 1683.8709,919.0498000000001 1669.6871,918.0962000000001 C 1663.4319,917.3796000000001 1659.5827,915.1062000000001 1655.3432,910.2678000000001 C 1654.9291,909.7621000000001 1654.6561,909.6549000000001 1654.312,910.1742000000002 C 1648.6724,919.1210000000001 1642.1627,924.7900000000001 1635.3275,927.0962000000001 C 1626.8224,929.8847000000001 1617.8869,928.4098000000001 1613.5773,922.3618000000001 C 1610.8285,918.3678000000001 1610.8291,911.2316000000001 1613.0617,906.5178000000001 C 1615.0901,902.4668000000001 1618.8395,901.2292000000001 1620.5615,905.3928000000001 C 1622.1943,909.1025000000001 1624.4243,911.6086000000001 1627.5462,912.3773000000001 C 1631.156,913.0846000000001 1634.1792,911.4646000000001 1636.8551,908.2104000000002 C 1642.1085,901.3355000000001 1645.41,892.1326000000001 1647.843,885.3068000000001 C 1655.4249,864.4387000000002 1665.2988,832.6243000000001 1677.3993,819.0721000000001 C 1678.0317,818.2714000000001 1677.2017,818.1308000000001 1675.9227,818.3572000000001 C 1664.1585,820.1544000000001 1649.1742,828.4542000000001 1643.5471,836.7640000000001 C 1641.6763,839.5264000000001 1640.356,843.4779000000001 1643.5315,845.9086000000001 C 1644.7521,846.8811000000001 1647.0208,847.9385000000001 1648.5471,848.7211000000001 C 1650.5549,849.7365000000001 1649.6685,851.8772000000001 1648.313,853.1741000000001 C 1644.8168,856.4382000000002 1640.3687,857.7152000000001 1635.891,856.8772000000001 C 1629.3878,855.2604000000001 1626.457,850.0959000000001 1626.9378,843.4240000000001 C 1627.8528,837.0628000000002 1632.8511,830.5817000000001 1639.9223,825.0958 C 1659.505,811.9643000000001 1676.9551,805.9735000000001 1702.0774,807.9856000000001 M 1675.0208,865.9804000000001 C 1678.9467,865.9645000000002 1685.2514,866.3413000000002 1689.0131,867.9723000000001 C 1701.7007,873.5818000000002 1698.1228,886.6444000000001 1695.2947,891.9730000000001 C 1692.7575,896.6584000000001 1688.9605,901.0053000000001 1683.6735,904.0854000000002 C 1676.5271,908.1089000000001 1667.1067,908.9738000000001 1660.2789,903.1293000000001 C 1659.6694,902.6157000000001 1659.3883,902.1726000000001 1659.7166,901.2545000000001 C 1664.6902,889.9913000000001 1669.1023,878.6584000000001 1673.0756,867.2696000000001 C 1673.3928,866.4198000000001 1673.9855,865.9920000000001 1675.0208,865.9804000000001 M 1693.6495,820.4478000000001 C 1694.8202,819.6110000000001 1696.3405,819.1881000000001 1697.9649,819.1416000000002 C 1702.0205,819.0849000000001 1705.1452,821.4952000000001 1707.5512,825.0246000000001 C 1712.356,832.8292000000001 1707.1532,843.2826000000001 1703.7077,846.7984000000001 C 1698.0302,853.0757000000001 1690.3071,857.4737000000001 1679.0043,858.2594000000001 C 1677.9708,858.3240000000001 1677.026,858.2481000000001 1677.223,857.2752000000002 C 1679.7501,850.2637000000001 1688.5355,824.1051000000001 1693.6495,820.4478000000001" fill-rule="evenodd" fill="#b15023" class="bsgL"/>
 <path d="M 1784.3244,834.5170000000002 C 1789.8626,830.9839000000001 1793.6376,823.2762000000001 1792.9962,816.5167000000001 C 1791.0624,800.3065000000001 1773.9763,796.5634000000001 1760.0587,800.8391000000001 C 1746.9832,804.8785000000001 1737.2155,816.5365000000002 1737.6834,830.4856000000001 C 1738.0355,839.0961000000001 1741.9686,846.1881000000001 1748.1832,853.1735000000001 C 1754.3239,860.1501000000001 1761.4257,865.7437000000001 1766.6054,874.5955000000001 C 1769.7665,880.8045000000001 1769.0187,887.8988000000002 1765.8085,892.6896000000002 C 1761.8964,898.4643000000001 1754.955,901.9739000000001 1747.3397,900.7522000000001 C 1741.2453,899.4862 1736.747,894.2291000000001 1735.7145,888.6582000000001 C 1734.763,882.7666000000002 1735.6113,876.5721000000001 1738.8082,872.0641000000002 C 1739.9194,870.5309000000001 1739.425,869.6717000000001 1738.0108,869.6269000000001 C 1734.8091,869.5073000000001 1731.2102,870.4183000000002 1727.7457,873.7048000000001 C 1721.9004,879.6275 1719.2316,888.1740000000001 1721.2771,895.2209000000001 C 1724.377,904.8825000000002 1734.287,912.0051000000001 1745.8866,912.4712000000001 C 1755.8134,912.5743000000001 1764.7413,909.3440000000002 1773.5899,902.0178000000001 C 1777.8762,898.1162000000002 1781.3273,893.7849000000001 1783.2626,889.5902000000001 C 1786.1975,883.0665000000001 1786.0844,873.7831000000001 1783.4998,866.9314000000002 C 1778.7881,854.3246000000001 1765.4984,846.7556000000001 1758.2854,835.2446000000001 C 1756.5454,832.4366000000001 1754.8087,828.0809000000002 1755.3501,822.7651000000001 C 1756.081,816.9102000000001 1759.6633,812.7257000000001 1764.3197,810.8222000000001 C 1768.1995,809.2490000000001 1774.4474,808.9970000000001 1777.341,812.8850000000001 C 1779.7949,816.3571000000001 1780.17,821.1638000000002 1779.71,827.2532000000001 C 1779.5784,828.8854000000001 1779.2765,830.8702000000001 1779.6397,832.7845000000001 C 1780.287,835.6823 1782.9031,835.3691000000001 1784.3244,834.5170000000002" fill-rule="evenodd" fill="#b15023" class="bsgL"/>
 <path d="M 1838.0089,800.0726000000001 C 1847.0741,796.8854000000001 1856.444,795.8292000000001 1864.0523,797.5181000000001 C 1873.8449,800.0369000000001 1878.6932,808.0306000000002 1876.6809,818.5415000000002 C 1875.1154,825.6684000000001 1868.0786,833.0790000000001 1861.634,834.6199000000001 C 1859.4048,835.0709000000002 1857.4534,834.7282000000001 1856.4776,833.4013000000001 C 1855.692,832.1557000000001 1856.3445,830.3367000000001 1856.8526,829.1825000000001 C 1857.8483,826.9165000000002 1859.2554,824.3554000000001 1860.1807,821.9635000000001 C 1865.2141,809.3082 1855.471,804.3793000000001 1844.2899,808.3229000000001 C 1837.29,810.8205000000002 1830.4313,816.6145000000001 1824.228,825.8535 C 1817.3958,836.6776000000001 1812.482,850.1784000000001 1810.8919,862.2991000000001 C 1810.0471,869.0574000000001 1809.8975,876.9692000000001 1812.8075,883.2185000000001 C 1815.472,888.7191000000001 1821.7194,890.3490000000002 1826.8792,887.3123000000002 C 1832.6957,883.7641000000001 1836.3186,879.1902000000001 1839.2752,873.8772000000001 C 1840.6395,871.4864000000001 1848.001,858.9961000000001 1843.5407,857.6114000000001 C 1841.5894,857.1213000000001 1836.4623,857.3078000000002 1834.4705,857.2832000000001 C 1832.504,857.2032000000002 1831.7727,856.4433000000001 1831.6812,854.9862 C 1831.3594,849.4584000000001 1850.034,847.3491000000001 1853.6658,846.9704000000002 C 1859.5018,846.4078000000001 1864.4706,846.1736000000001 1869.2753,846.2674000000001 C 1871.8067,846.3068000000001 1871.7012,847.3647000000001 1870.541,848.8456000000001 C 1859.6038,862.0510000000002 1862.1817,863.7700000000001 1857.744,880.4867000000002 C 1853.4306,896.4979000000001 1844.339,908.1634000000001 1830.0407,916.1585000000001 C 1817.0048,923.3134000000001 1796.7175,929.5349000000001 1774.6342,933.7834000000001 C 1730.7218,942.1085000000002 1717.2604,933.5604000000001 1679.5244,960.3617000000002 C 1677.4115,961.7399000000001 1677.2003,960.0456000000001 1677.5946,958.4148000000001 C 1679.2656,951.5108000000001 1683.4025,945.1759000000001 1688.5596,939.9012000000001 C 1696.1737,932.3245000000001 1705.5197,927.4704000000002 1715.7124,925.2058000000001 C 1730.3919,922.1353000000001 1746.4255,922.3040000000001 1761.463,921.5962000000001 C 1779.3694,920.8617000000002 1792.4472,918.8619000000001 1805.9472,915.2681000000001 C 1816.0119,912.6137000000001 1825.8761,907.3450000000001 1832.8535,899.3774000000001 C 1835.9501,895.6711000000001 1837.2178,891.9668000000001 1837.9159,889.0179 C 1838.1875,887.8500000000001 1837.7907,887.1269000000001 1836.8847,888.2211000000001 C 1831.29,894.9315000000001 1824.9639,899.3312000000001 1818.1347,900.7369000000001 C 1811.2907,902.0108000000001 1805.2628,901.0337000000001 1800.0873,897.1272000000001 C 1792.7589,891.0690000000001 1789.662,881.4857000000001 1790.4197,868.2473000000001 C 1791.4575,854.4964000000001 1795.7217,842.8148000000001 1803.4628,829.5328000000001 C 1811.948,815.8815000000001 1824.0548,805.2561000000001 1838.0089,800.0726000000001" fill-rule="evenodd" fill="#b15023" class="bsgL"/>
@@ -187,6 +198,8 @@ tl.addLabel("melt", 1.6)
   .to(".rPatArt", { opacity: 0, duration: 1.6, ease: "sine.in" }, "melt+=0.5")
   .to("#eraserRect", { attr: { height: 300 }, duration: 1.6, ease: "power1.out" }, "melt+=0.05")
   // butter coats the ball's crown, hugging the surface
+  .to("#ringRect", { attr: { height: 430 }, duration: 0.85, ease: "power1.inOut" }, "melt+=0.45")
+  .to(".rRing, .gRing", { autoAlpha: 0, duration: 0.5, ease: "sine.inOut" }, "melt+=2.7")
   .to("#coatWave", { y: 255, duration: 2.5, ease: "power1.inOut" }, "melt+=0.4")
   .to(".rRun, .gRun", { autoAlpha: 1, duration: 0.4, stagger: 0.15 }, "melt+=0.3")
   .to("#hornCover", { opacity: 1, duration: 0.5, ease: "sine.inOut" }, "melt+=0.9")
@@ -214,7 +227,7 @@ tl.addLabel("consume", 3.3)
   .to("#pondBack", { y: 585, duration: 1.3, ease: "power1.inOut" }, "consume+=0.1")
   .to("#pondFront", { y: 606, duration: 1.3, ease: "power1.inOut" }, "consume+=0.22")
   // everything solid fades beneath the gold (invisible handoff)
-  .to(["#staticA", "#staticB"], { autoAlpha: 0, duration: 0.55, ease: "sine.inOut" }, "consume+=0.55")
+  .to("#staticA", { autoAlpha: 0, duration: 0.38, ease: "sine.inOut" }, "consume+=0.78")
   .to(".rPatArt, .gPatArt", { autoAlpha: 0, duration: 0.4 }, "consume+=0.7")
   // ...and the whole molten mass slumps off the tee into the river
   .to(".rCoat, .gCoat", { attr: { cy: "+=300", ry: 96, rx: 238 },

diff --git a/tools/build_gsap_intro.py b/tools/build_gsap_intro.py
@@ -51,6 +51,10 @@ def molten_members(cls):
                     f'rx="{28 + (i % 3) * 5}" ry="34" data-drift="{drift}"/>\n')
     return f"""
     <g class="{cls}PatArt">{paths("gold", keep_fill=False)}</g>
+    <g clip-path="url(#ringClip)">
+      <circle class="{cls}Ring" cx="{BALL_CX}" cy="{BALL_CY}" r="{BALL_R - 2}"
+        fill="none" stroke="{GOLDEN}" stroke-width="30"/>
+    </g>
     <g clip-path="url(#coatClip)">
       <ellipse class="{cls}Coat" cx="{BALL_CX}" cy="{BALL_CY}" rx="{BALL_R + 4}" ry="{BALL_R + 4}"/>
     </g>
@@ -95,6 +99,9 @@ html = f"""<!doctype html>
     <clipPath id="coatClip">
       <path id="coatWave" d="M1520 400 H1968 V1240 Q1934 1264 1898 1248 L1832 1162 Q1788 1110 1744 1078 Q1700 1110 1656 1162 L1590 1248 Q1554 1264 1520 1240 Z"/>
     </clipPath>
+    <clipPath id="ringClip">
+      <rect id="ringRect" x="1520" y="898" width="448" height="0"/>
+    </clipPath>
     <clipPath id="eraserClip">
       <rect id="eraserRect" x="1520" y="740" width="440" height="0"/>
     </clipPath>
@@ -125,6 +132,7 @@ html = f"""<!doctype html>
         {paths("ball")}
         {paths("dimples_cream")}
         {paths("dimples_green")}
+        {paths("tee")}
         <g id="hornCover" fill="{CREAM}" opacity="0">
           <rect x="1872" y="876" width="92" height="104" rx="14"/>
           <rect x="1522" y="886" width="84" height="90" rx="14"/>
@@ -133,7 +141,6 @@ html = f"""<!doctype html>
       <!-- the molten butter: real art in the goo from frame one -->
       <g id="moltenRim" filter="url(#gooRim)">{molten_members("r")}</g>
       <g id="moltenGold" filter="url(#goo)" fill="{GOLDEN}">{molten_members("g")}</g>
-      <g id="staticB">{paths("tee")}</g>
       <g id="bsg" filter="url(#lettersMelt)">{paths("bsg", cls="bsgL")}</g>
       <g id="speed">{paths("speed")}</g>
     </g>
@@ -185,6 +192,8 @@ tl.addLabel("melt", 1.6)
   .to(".rPatArt", {{ opacity: 0, duration: 1.6, ease: "sine.in" }}, "melt+=0.5")
   .to("#eraserRect", {{ attr: {{ height: 300 }}, duration: 1.6, ease: "power1.out" }}, "melt+=0.05")
   // butter coats the ball's crown, hugging the surface
+  .to("#ringRect", {{ attr: {{ height: 430 }}, duration: 0.85, ease: "power1.inOut" }}, "melt+=0.45")
+  .to(".rRing, .gRing", {{ autoAlpha: 0, duration: 0.5, ease: "sine.inOut" }}, "melt+=2.7")
   .to("#coatWave", {{ y: 255, duration: 2.5, ease: "power1.inOut" }}, "melt+=0.4")
   .to(".rRun, .gRun", {{ autoAlpha: 1, duration: 0.4, stagger: 0.15 }}, "melt+=0.3")
   .to("#hornCover", {{ opacity: 1, duration: 0.5, ease: "sine.inOut" }}, "melt+=0.9")
@@ -212,7 +221,7 @@ tl.addLabel("consume", 3.3)
   .to("#pondBack", {{ y: 585, duration: 1.3, ease: "power1.inOut" }}, "consume+=0.1")
   .to("#pondFront", {{ y: 606, duration: 1.3, ease: "power1.inOut" }}, "consume+=0.22")
   // everything solid fades beneath the gold (invisible handoff)
-  .to(["#staticA", "#staticB"], {{ autoAlpha: 0, duration: 0.55, ease: "sine.inOut" }}, "consume+=0.55")
+  .to("#staticA", {{ autoAlpha: 0, duration: 0.38, ease: "sine.inOut" }}, "consume+=0.78")
   .to(".rPatArt, .gPatArt", {{ autoAlpha: 0, duration: 0.4 }}, "consume+=0.7")
   // ...and the whole molten mass slumps off the tee into the river
   .to(".rCoat, .gCoat", {{ attr: {{ cy: "+=300", ry: 96, rx: 238 }},
